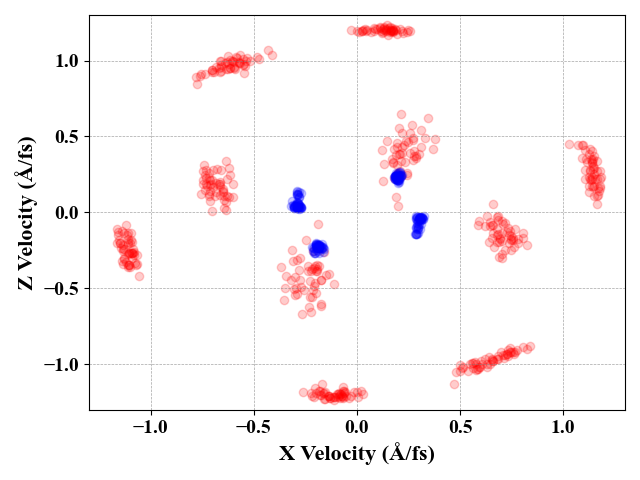
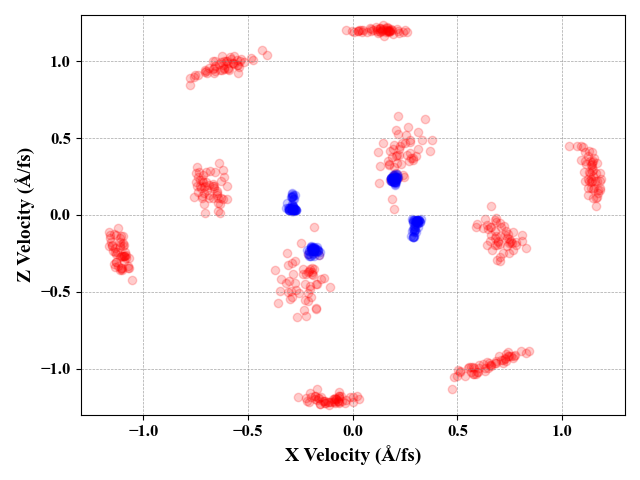
figures

diff --git a/scripts/newton_plot.py b/scripts/newton_plot.py
@@ -16,12 +16,12 @@ EPSILON = 1e-10
 mpl.rcParams['font.family'] = 'Times New Roman'
 mpl.rcParams['font.weight'] = 'bold'
 mpl.rcParams['axes.labelweight'] = 'bold'
-mpl.rcParams['axes.labelsize'] = 16  # increase label font size
-mpl.rcParams['xtick.labelsize'] = 14  # increase x tick font size
-mpl.rcParams['ytick.labelsize'] = 14  # increase y tick font size
-mpl.rcParams['legend.fontsize'] = 14  # Legend font size
-# either make axis label 14, then ticks and legend 12
-# or make axis label 16, then ticks and legend 14
+mpl.rcParams['axes.labelsize'] = 14  # increase label font size
+mpl.rcParams['xtick.labelsize'] = 12  # increase x tick font size
+mpl.rcParams['ytick.labelsize'] = 12  # increase y tick font size
+mpl.rcParams['legend.fontsize'] = 12  # Legend font size
+# either make axis label 14, then ticks and legend 12 # for c4h10
+# or make axis label 16, then ticks and legend 14     # otherwise
 
 class NewtonPlot:
     def __init__(self, SHOW_PLOT=False,SHOW_TITLE=False,SHOW_LEGEND=False):
@@ -696,45 +696,43 @@ class NewtonPlot:
 def main():
     print("-=GENERATING NEWTON PLOT=-")
     newton_plot = NewtonPlot()
-    data_mode = "c"
+    data_mode = "s"
     user_input_mode = False
     alpha = 0.2  #set alpha =0.2 for c4h10 and =0.03 for c2h2
-    lim_2d_left=-1.0
-    lim_2d_right=1.0
-    lim_2d_bottom=-0.15
-    lim_2d_top=0.15
-    lim_3d_x_lower=-1.0
-    lim_3d_x_upper=1.0
-    lim_3d_y_lower=-1.0
-    lim_3d_y_upper=1.0
-    lim_3d_z_lower=-1.0
-    lim_3d_z_upper=1.0
-    newton_plot.axis_subdivide = 5
-
-    
+    lim_2d_left=-1.3
+    lim_2d_right=1.3
+    lim_2d_bottom=-1.3
+    lim_2d_top=1.3
+    lim_3d_x_lower=-1.3
+    lim_3d_x_upper=1.3
+    lim_3d_y_lower=-1.3
+    lim_3d_y_upper=1.3
+    lim_3d_z_lower=-1.3
+    lim_3d_z_upper=1.3
+    newton_plot.axis_subdivide = 4    
 
     if (data_mode.lower().startswith('c')):
         #CLASSICAL INPUT FILE:
+        input_file = 'data\\isoxazole_classical\\atom_info.csv'
+        input_file = 'data\\c2h2_classical\\atom_info.csv'
         input_file = 'data\\c4h10_classical\\14\\atom_info.csv'
         input_file = 'data\\c4h10_classical\\28\\atom_info.csv'
-        input_file = 'data\\c2h2_classical\\atom_info.csv'
-        input_file = 'data\\isoxazole_classical\\atom_info.csv'
         graph_name_tag="classical"
         
     if (data_mode.lower().startswith('q')):
         #QUANTUM INPUT FILE:
+        input_file = 'data\\isoxazole_quantum\\moleculeFormations_14.csv' 
+        input_file = 'data\\c2h2_quantum\\moleculeFormations_14.csv'
         input_file = 'data\\c4h10_quantum\\14\\moleculeFormations_14.csv'
         input_file = 'data\\c4h10_quantum\\28\\moleculeFormations_28.csv' 
-        input_file = 'data\\c2h2_quantum\\moleculeFormations_14.csv'
-        input_file = 'data\\isoxazole_quantum\\moleculeFormations_14.csv' 
         graph_name_tag="quantum"
 
     if (data_mode.lower().startswith('s')):
         #SEMI-CLASSICAL INPUT FILE:
+        input_file = 'data\\isoxazole_semi_classical\\atom_info.csv'
+        input_file = 'data\\c2h2_semi_classical\\atom_info.csv'
         input_file = 'data\\c4h10_semi_classical\\14\\atom_info.csv'
         input_file = 'data\\c4h10_semi_classical\\28\\atom_info.csv'
-        input_file = 'data\\c2h2_semi_classical\\atom_info.csv'
-        input_file = 'data\\isoxazole_semi_classical\\atom_info.csv'
         graph_name_tag="semi-classical"
 
     

diff --git a/scripts/angular_distribution.py b/scripts/angular_distribution.py
@@ -39,6 +39,7 @@ class AngularDistribution:
             self.data_type = 'Semi-classical'
         if data_type.strip().lower().startswith('q'):  # quantum
             self.data_type = 'Quantum'
+        self.SHOW_LEGENDS=False
 
     def atom_number_to_subscript(self):
         # ₀ ₁ ₂ ₃ ₄ ₅ ₆ ₇ ₈ ₉
@@ -92,27 +93,28 @@ class AngularDistribution:
         ax.set_xlabel(r'θ°', fontweight='bold')
         ax.set_ylabel('Kinetic Energy (eV)', fontweight='bold')
         ax.grid(True)
-        ax.legend()
+        if self.SHOW_LEGENDS:
+            ax.legend()
         if self.thetas[1] > -30 and self.thetas[1] < 30:
             ax.set_xlim(-15, 15) #default is (-30, 30)
         elif self.thetas[1] > 150 and self.thetas[1] < 210:
             ax.set_xlim(165, 195) #default is (150, 210)
         else:
             ax.set_xlim(-180, 180)
-        ax.set_ylim(10, 35.5)
+        if self.element=="C":
+            ax.set_ylim(10, 28)
+        if self.element=="H":
+            ax.set_ylim(18, 36)
 
 # Create an instance of the AngularDistribution class for all atoms
 def main():
     atom_types = ['C', 'C', 'H', 'H']
-    '''
-    file_path = 'data\\c2h2_classical\\all_variable_file.txt'
-    data_type = "Semi-classical"
-    '''
+   
     file_path = 'data\\c2h2_quantum\\moleculeFormations_14.csv'
     #file_path = 'data\\c2h2_classical\\atom_info.csv'
     #file_path = 'data\\c2h2_semi_classical\\atom_info.csv'
 
-    data_type = 'Quantum'
+    data_type = 'q'
     
     fig, axes = plt.subplots(2, 2, figsize=(12, 10))  # Create a 2x2 grid for subplots
     #fig.suptitle(f'Angular Distribution C₂H₂ ({data_type})', fontsize=16, fontweight='bold')
